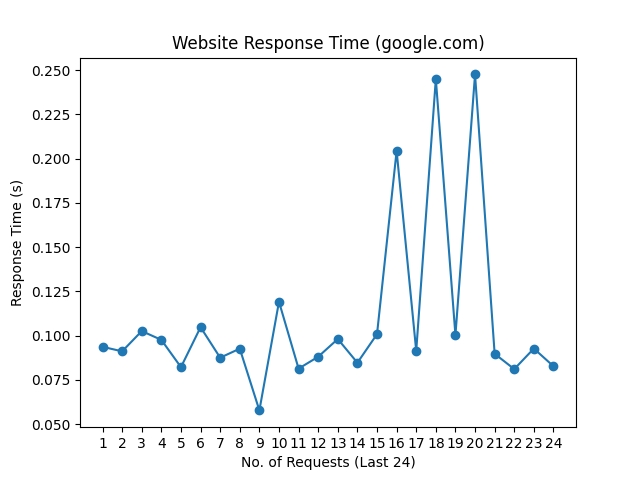
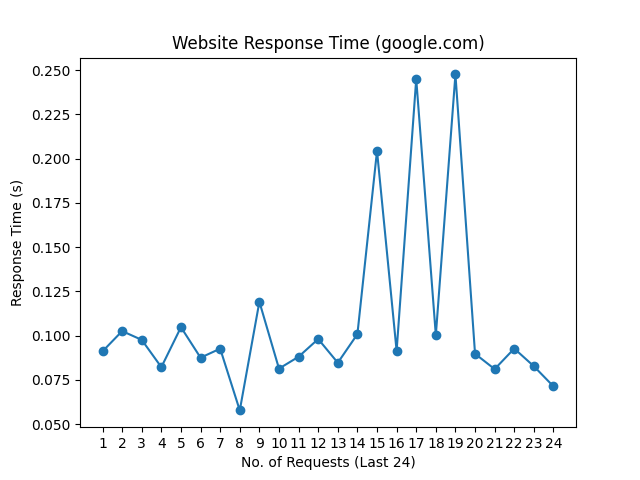
update README.md, history and graph

Changed region(s): [[0.1562, 0.125, 0.875, 0.875]]

diff --git a/README.md b/README.md
@@ -1,10 +1,10 @@
 # Web Monitoring
 
-Last Checked: 03/11/2023 09:00
+Last Checked: 04/11/2023 08:59
 
 | Website | Response Time (s) | Status | Avg Uptime (%) |
 |---------|-------------------|--------|----------------|
 | www.thiswebsiteisdown.net | 0 <br> <img src="graph/thiswebsiteisdown.net.png" alt="Graph" width="200" height="200">  | ❌ Down | 0.00 |
-| www.netflix.com | 0.593458 <br> <img src="graph/netflix.com.png" alt="Graph" width="200" height="200">  | ✅ Up | 100.00 |
-| www.google.com | 0.082664 <br> <img src="graph/google.com.png" alt="Graph" width="200" height="200">  | ✅ Up | 100.00 |
-| www.facebook.com | 0.918498 <br> <img src="graph/facebook.com.png" alt="Graph" width="200" height="200">  | ✅ Up | 100.00 |
+| www.netflix.com | 1.407652 <br> <img src="graph/netflix.com.png" alt="Graph" width="200" height="200">  | ✅ Up | 100.00 |
+| www.google.com | 0.071272 <br> <img src="graph/google.com.png" alt="Graph" width="200" height="200">  | ✅ Up | 100.00 |
+| www.facebook.com | 0.383459 <br> <img src="graph/facebook.com.png" alt="Graph" width="200" height="200">  | ✅ Up | 100.00 |
